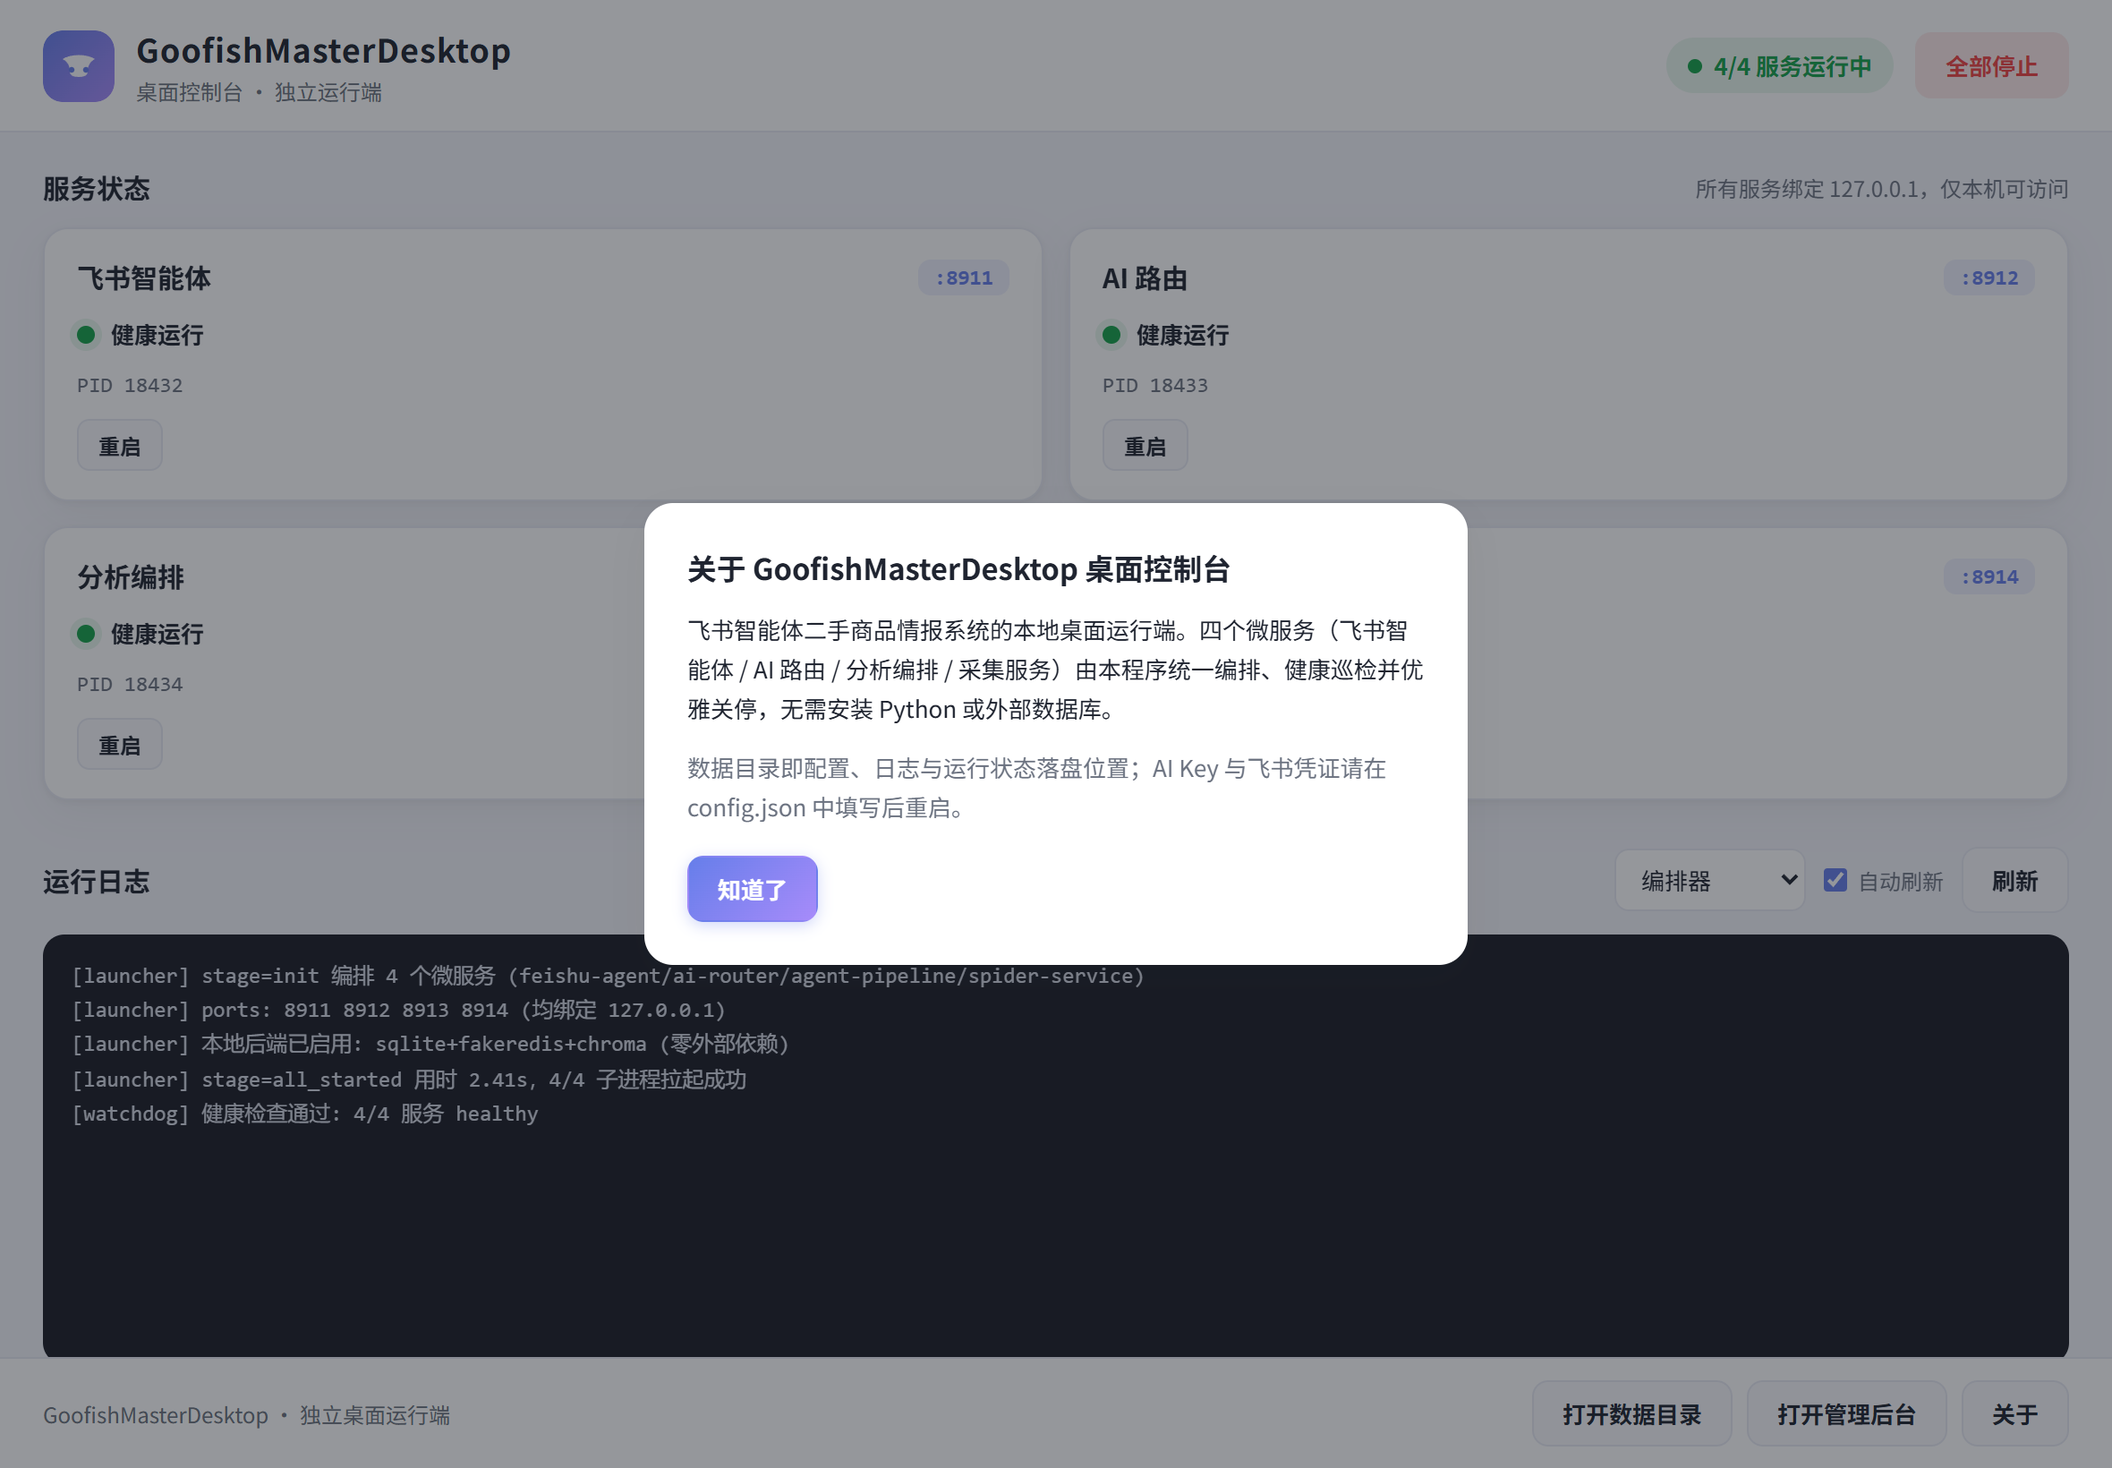
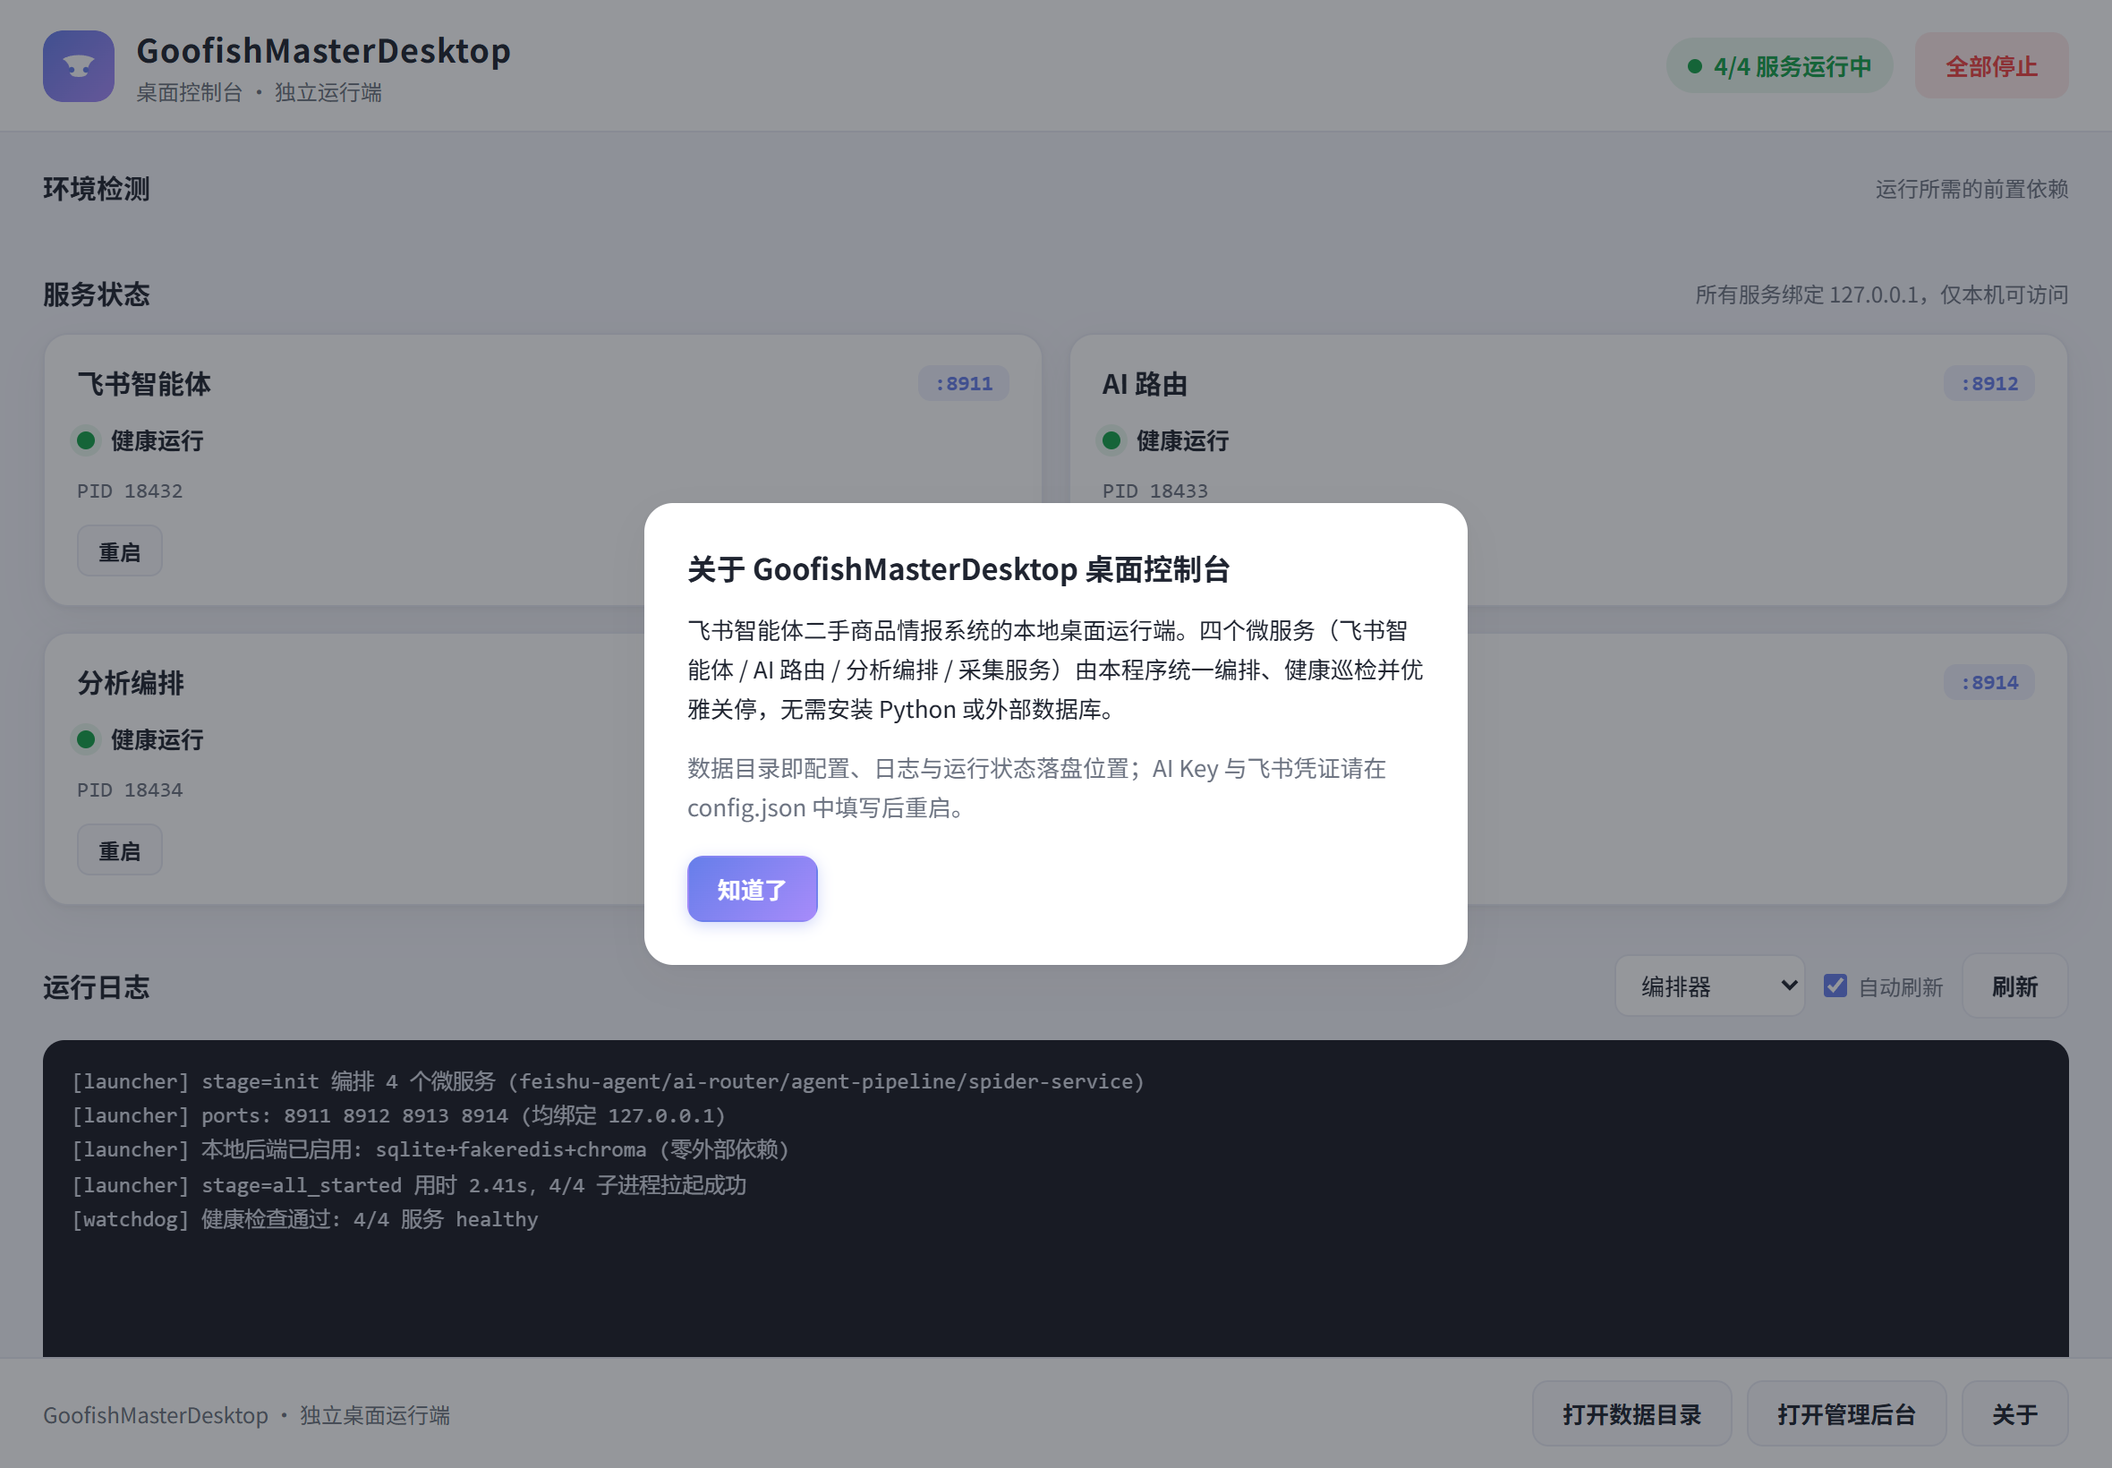
feat: 安装包集成 WebView2 自动安装 + 随附 Playwright Chromium 离线采集
- launcher.py: 新增 check_prerequisites()（WebView2 / 随附 Chromium 检测）+ preflight 子命令；
  向 spider 注入 PLAYWRIGHT_BROWSERS_PATH 与 GOOFISH_USE_BUNDLED_CHROMIUM，桌面端优先走 bundled Chromium
- services/spider-service/src/scraper.py: _resolve_browser_channel 在 bundled 模式下返回空 channel（用随附 Chromium）
- desktop/api.py + ui: 新增 check_prerequisites API 与「环境检测」卡片（app.js/app.css/index.html）
- GoofishMasterDesktop.iss: 安装包在 ssPostInstall 自动静默安装 WebView2（注册表探测）；
  [Files] 随附 release/playwright-browsers（chromium-1234 + chromium_headless_shell-1234）
- build-assets/MicrosoftEdgeWebview2Setup.exe: WebView2 Evergreen 引导安装器（联网安装）
- release/GoofishMasterDesktop: 同步新 exe + playwright-browsers 目录（installer 已重新生成）
- README/AGENTS 同步：前置依赖检测、随附 Chromium、WebView2 自动安装说明与排障

diff --git a/desktop/ui/app.js b/desktop/ui/app.js
@@ -134,6 +134,34 @@ function refreshConfig() {
   api.get_config().then(renderConfig).catch((e) => console.error(e));
 }
 
+// ---------- 环境检测 ----------
+function renderPreflight(p) {
+  const box = el("preflightBox");
+  if (!box) return;
+  const items = [
+    { label: "WebView2 Runtime", ok: p.webview2_installed, msg: p.webview2_message },
+    { label: "随附 Chromium", ok: p.chromium_installed, msg: p.chromium_message },
+  ];
+  box.innerHTML = "";
+  items.forEach((it) => {
+    const d = document.createElement("div");
+    d.className = "env-item " + (it.ok ? "env-ok" : "env-no");
+    d.innerHTML = `
+      <div class="env-head">
+        <span class="dot ${it.ok ? "dot-ok" : "dot-bad"}"></span>
+        <span class="env-label">${it.label}</span>
+        <span class="env-tag">${it.ok ? "已就绪" : "缺失"}</span>
+      </div>
+      <div class="env-msg">${it.msg}</div>`;
+    box.appendChild(d);
+  });
+}
+
+function refreshPreflight() {
+  if (!api) return;
+  api.check_prerequisites().then(renderPreflight).catch((e) => console.error(e));
+}
+
 // ---------- 事件绑定 ----------
 function bindEvents() {
   el("toggleBtn").addEventListener("click", () => {
@@ -157,6 +185,7 @@ whenReady(() => {
   refreshStatus();
   refreshLog();
   refreshConfig();
+  refreshPreflight();
 
   statusTimer = setInterval(() => {
     refreshStatus();

diff --git a/desktop/ui/app.css b/desktop/ui/app.css
@@ -118,6 +118,22 @@ body {
 .svc-meta .pid { font-size: 12px; color: var(--text-muted); font-family: "JetBrains Mono","Consolas",monospace; }
 .svc-foot { display: flex; gap: 8px; }
 
+/* 环境检测 */
+.preflight-grid { display: grid; grid-template-columns: repeat(2, 1fr); gap: 14px; }
+.env-item {
+  background: var(--surface); border: 1px solid var(--border);
+  border-radius: 12px; padding: 14px 16px; box-shadow: var(--shadow);
+}
+.env-head { display: flex; align-items: center; gap: 9px; margin-bottom: 8px; }
+.env-label { font-size: 14px; font-weight: 700; }
+.env-tag {
+  margin-left: auto; font-size: 12px; font-weight: 600;
+  padding: 2px 9px; border-radius: 999px;
+}
+.env-ok .env-tag { background: var(--green-bg); color: var(--green); }
+.env-no .env-tag { background: var(--amber-bg); color: var(--amber); }
+.env-msg { font-size: 12px; color: var(--text-muted); line-height: 1.5; }
+
 /* 日志 */
 .log-controls { display: flex; align-items: center; gap: 10px; }
 .select {

diff --git a/desktop/ui/index.html b/desktop/ui/index.html
@@ -36,6 +36,15 @@
 
     <!-- 主体 -->
     <main class="main">
+      <!-- 环境检测 -->
+      <section class="section" id="preflightSection">
+        <div class="section-head">
+          <h2>环境检测</h2>
+          <span class="hint">运行所需的前置依赖</span>
+        </div>
+        <div id="preflightBox" class="preflight-grid"><!-- JS 注入 --></div>
+      </section>
+
       <!-- 服务状态 -->
       <section class="section">
         <div class="section-head">

diff --git a/launcher.py b/launcher.py
@@ -11,6 +11,7 @@ GoofishMasterDesktop 启动编排器
 from __future__ import annotations
 
 import argparse
+import json
 import logging
 import os
 import signal
@@ -50,6 +51,74 @@ PROCS: dict[str, subprocess.Popen] = {}
 _RUNNING = True
 
 
+# ---------------------------------------------------------------------------
+# 桌面运行前置依赖检测（WebView2 Runtime / 打包的 Playwright Chromium）
+# ---------------------------------------------------------------------------
+def _webview2_installed() -> bool:
+    """检测 Microsoft Edge WebView2 Runtime 是否已安装（固定注册表 GUID）。"""
+    try:
+        import winreg
+    except Exception:
+        return True  # 非 Windows / 无法检测 → 假定可用（避免误报）
+    guid = "{F3017226-FE2A-4295-8BDF-00C3A9A08C11}"
+    for root in (winreg.HKEY_LOCAL_MACHINE, winreg.HKEY_CURRENT_USER):
+        for base in (r"SOFTWARE\Microsoft\EdgeUpdate\Clients",
+                     r"SOFTWARE\WOW6432Node\Microsoft\EdgeUpdate\Clients"):
+            try:
+                with winreg.OpenKey(root, base + "\\" + guid):
+                    return True
+            except OSError:
+                continue
+    return False
+
+
+def _bundled_browsers_dir() -> Path:
+    """打包产物中随附的 Playwright Chromium 目录（安装时落盘到 app 同级）。"""
+    env_dir = os.environ.get("PLAYWRIGHT_BROWSERS_PATH")
+    if env_dir:
+        return Path(env_dir).resolve()
+    if getattr(sys, "frozen", False):
+        # 冻结模式：playwright-browsers 随 exe 一起落在 app 目录下（与 _internal 同级）
+        return Path(sys.executable).resolve().parent / "playwright-browsers"
+    return (ROOT / "playwright-browsers").resolve()
+
+
+def _chromium_installed() -> bool:
+    """检测打包的 Playwright Chromium 是否存在于随附浏览器目录。"""
+    bdir = _bundled_browsers_dir()
+    if not bdir.exists():
+        return False
+    # Playwright 浏览器目录形如 chromium-<revision> / chromium_headless_shell-<revision>
+    found = any(p.name.startswith("chromium") for p in bdir.iterdir() if p.is_dir())
+    return found
+
+
+def check_prerequisites() -> dict:
+    """返回前置依赖检测结果（供桌面控制台 / preflight 命令使用）。"""
+    webview2 = _webview2_installed()
+    chromium = _chromium_installed()
+    return {
+        "webview2_installed": webview2,
+        "webview2_message": (
+            "已安装" if webview2 else
+            "未检测到 WebView2 Runtime，桌面窗口无法打开（安装包会自动安装）"
+        ),
+        "chromium_installed": chromium,
+        "chromium_message": (
+            "已随附 Chromium" if chromium else
+            "未找到随附的 Chromium，采集服务将使用系统 Chrome/Edge（需另行安装）"
+        ),
+        "all_ok": webview2 and chromium,
+    }
+
+
+def _app_dir() -> Path:
+    """配置/数据落盘根目录（exe 同级；开发模式为项目根）。"""
+    if getattr(sys, "frozen", False):
+        return Path(sys.executable).resolve().parent
+    return ROOT
+
+
 def _data_dir(sub: str) -> str:
     d = cfg_mod.APP_DIR / "data" / sub
     d.mkdir(parents=True, exist_ok=True)
@@ -76,6 +145,8 @@ def build_env(name: str) -> dict:
     e = _safe_env()
     e["PYTHONUNBUFFERED"] = "1"
     e["GOOFISH_SECRET_KEY"] = CFG.get("secret_key", "")
+    # 指向打包随附的 Chromium（安装时落盘到 app 同级 playwright-browsers）
+    e["PLAYWRIGHT_BROWSERS_PATH"] = str(_bundled_browsers_dir())
     # 本地后端连接串：仅在对应后端 enabled 时注入真实地址；
     # 未启用则注入空串 + 显式 *_ENABLED=false，让各服务跳过连接尝试、
     # 干净降级（不再向死地址重试/告警），overview 也据此判 degraded。
@@ -132,6 +203,10 @@ def build_env(name: str) -> dict:
         e["FEISHU_AGENT_URL"] = urls["feishu_agent"]
         e["RUN_HEADLESS"] = "true"
         e["RUNNING_IN_DOCKER"] = "false"
+        # 桌面端优先使用随附的 Playwright Chromium（而非系统 Chrome/Edge），
+        # 保证离线环境也能采集；scraper 读取该变量决定是否走 bundled 通道。
+        if _chromium_installed():
+            e["GOOFISH_USE_BUNDLED_CHROMIUM"] = "true"
 
     return e
 
@@ -308,7 +383,7 @@ def main_start_no_block() -> None:
 
 def main():
     parser = argparse.ArgumentParser(description="GoofishMasterDesktop 启动器")
-    parser.add_argument("action", choices=["start", "stop", "restart", "status", "desktop"],
+    parser.add_argument("action", choices=["start", "stop", "restart", "status", "desktop", "preflight"],
                         nargs="?", default="desktop" if getattr(sys, "frozen", False) else "start")
     parser.add_argument("--service", default=None,
                         help="冻结模式下以独立进程运行指定服务（内部使用）")
@@ -317,6 +392,11 @@ def main():
     # 冻结模式：子进程运行单个服务
     if args.service:
         run_service_mode(args.service)
+        return
+
+    # 前置依赖检测（JSON 输出，供控制台/脚本读取）
+    if args.action == "preflight":
+        print(json.dumps(check_prerequisites(), ensure_ascii=False))
         return
 
     # 冻结模式（无控制台）：把 stdout/stderr 重定向到日志文件，避免丢失现场

diff --git a/services/spider-service/src/scraper.py b/services/spider-service/src/scraper.py
@@ -92,6 +92,11 @@ def _resolve_browser_channel() -> str:
             )
             EDGE_DOCKER_WARNING_PRINTED = True
         return "chromium"
+    # 桌面端：若随附了 Playwright Chromium（GOOFISH_USE_BUNDLED_CHROMIUM=true），
+    # 则走 bundled 通道（默认 channel 为空 = 使用 PLAYWRIGHT_BROWSERS_PATH 下的 Chromium），
+    # 保证离线环境也能采集，无需系统安装 Chrome/Edge。
+    if os.getenv("GOOFISH_USE_BUNDLED_CHROMIUM", "false").lower() == "true":
+        return ""
     return "msedge" if LOGIN_IS_EDGE else "chrome"
 
 

diff --git a/desktop/api.py b/desktop/api.py
@@ -94,6 +94,10 @@ class Api:
     def get_config(self) -> Dict[str, Any]:
         return _config()
 
+    def check_prerequisites(self) -> Dict[str, Any]:
+        """返回 WebView2 Runtime 与随附 Chromium 的检测结果。"""
+        return launcher.check_prerequisites()
+
     def open_data_dir(self) -> None:
         try:
             import os

diff --git a/README.md b/README.md
@@ -70,8 +70,24 @@ feishu-agent        ai-router     agent-pipeline  spider-service
 5. 勾选「创建桌面快捷方式」
 6. 安装完成 → 桌面双击 `GoofishMasterDesktop` 即用
 
-> 安装包已内置全部依赖（含 chromadb / fakeredis / aiosqlite），无需任何额外安装。
-> Windows 10/11 一般自带 WebView2 Runtime；纯离线机器需先装 [WebView2 Runtime](https://developer.microsoft.com/microsoft-edge/webview2/)。
+> **安装包已内置全部运行依赖**：
+> - 全部 Python 依赖（chromadb / fakeredis / aiosqlite 等），无需安装 Python
+> - **Playwright Chromium（rev 1234）随安装包分发**，落在 `{app}\playwright-browsers`，采集服务离线即可用，无需系统安装 Chrome/Edge
+> - 若目标机缺失 **WebView2 Runtime**，安装包会在安装末尾**自动静默安装**（需联网；Windows 10/11 一般已自带，纯离线机需提前装 [WebView2 Runtime](https://developer.microsoft.com/microsoft-edge/webview2/)）
+
+### 前置依赖检测
+
+桌面控制台顶部新增「环境检测」卡片，实时显示两项前置依赖状态：
+
+- **WebView2 Runtime**：桌面窗口渲染依赖（缺失时窗口打不开，但后端仍可在浏览器管理）
+- **随附 Chromium**：采集服务离线采集依赖（缺失时退化为使用系统 Chrome/Edge）
+
+也可用命令行自检：
+
+```bash
+GoofishMasterDesktop.exe preflight
+# 输出 JSON：{"webview2_installed": true, "chromium_installed": true, "all_ok": true, ...}
+```
 
 ### 方式二：源码运行（开发者）
 
@@ -84,7 +100,7 @@ python -m venv .venv
 .venv\Scripts\activate
 pip install -r requirements.txt
 
-# 采集服务需要 Playwright Chromium
+# 采集服务需要 Playwright Chromium（须与打包驱动同修订号 1234）
 playwright install chromium
 
 # 启动全部服务（命令行模式）
@@ -208,20 +224,21 @@ GoofishMasterDesktop.exe restart <name>  # 重启指定服务
 
 ```
 GoofishMasterDesktop/
-├── launcher.py              # 启动编排器（拉起 4 服务 / 健康检查 / 看门狗）
+├── launcher.py              # 启动编排器（拉起 4 服务 / 健康检查 / 看门狗 / 前置依赖检测）
 ├── desktop/                 # 桌面控制台（pywebview + 系统托盘）
 │   ├── app.py               # 桌面壳
-│   ├── api.py               # JS 桥接 API
-│   └── ui/                  # 控制台前端（HTML/CSS/JS）
+│   ├── api.py               # JS 桥接 API（含 check_prerequisites）
+│   └── ui/                  # 控制台前端（HTML/CSS/JS，含环境检测卡片）
 ├── common/config.py         # 配置中心
 ├── services/                # 4 个微服务
 │   ├── feishu-agent/        # 飞书长连接 + WebUI
 │   ├── ai-router/           # 多模型路由 + RAG
 │   ├── agent-pipeline/      # 编排 + 决策打分
-│   └── spider-service/      # 闲鱼采集
+│   └── spider-service/      # 闲鱼采集（优先用随附 Chromium）
 ├── knowledge-base/          # RAG 知识库
-├── GoofishMasterDesktop.spec      # PyInstaller 打包配置
-├── GoofishMasterDesktop.iss       # Inno Setup 安装包脚本
+├── build-assets/            # 安装包构建资源（WebView2 引导安装器）
+├── GoofishMasterDesktop.spec      # PyInstaller 打包配置（已含 app.ico）
+├── GoofishMasterDesktop.iss       # Inno Setup 安装包脚本（含 WebView2 自动装 + 随附 Chromium）
 ├── config.example.json      # 配置示例
 └── requirements.txt         # Python 依赖
 ```
@@ -230,10 +247,10 @@ GoofishMasterDesktop/
 
 | 现象 | 处理 |
 |------|------|
-| 双击 exe 无窗口 | 装 Microsoft Edge WebView2 Runtime |
+| 双击 exe 无窗口 | 缺少 WebView2 Runtime；安装包会自动装，联网失败则手动装 [WebView2 Runtime](https://developer.microsoft.com/microsoft-edge/webview2/) |
 | 双击闪退 | 看 `data/logs/desktop-crash.log`；命令行 `GoofishMasterDesktop.exe start` 确认服务端是否能起 |
 | 8911 打不开 WebUI | 看 `data/logs/feishu-agent.log`；确认服务已启动 |
-| 采集失败 | `playwright install chromium`（开发模式）；安装包版需额外分发浏览器 |
+| 采集失败 | 安装包版已随附 Chromium，检查「环境检测」卡片 Chromium 状态；开发模式需 `playwright install chromium` |
 | AI 分析失败 | 检查 `config.json` 的 `ai.deepseek_api_key`；境外模型需配 `ai.proxy_url` |
 | 飞书收不到消息 | 检查 `feishu.app_id/app_secret`；看日志长连接是否建立 |
 | 端口被占 | 改 `config.json` 的 `ports.*` 或安装时填新端口 |
